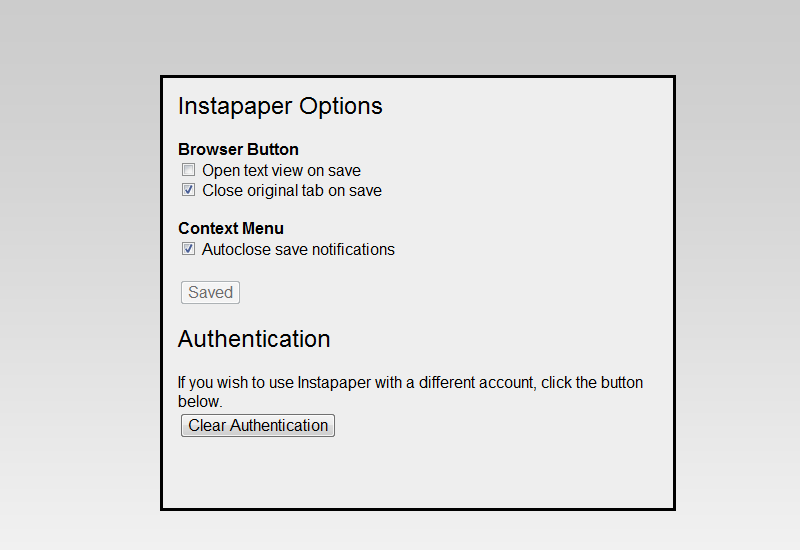
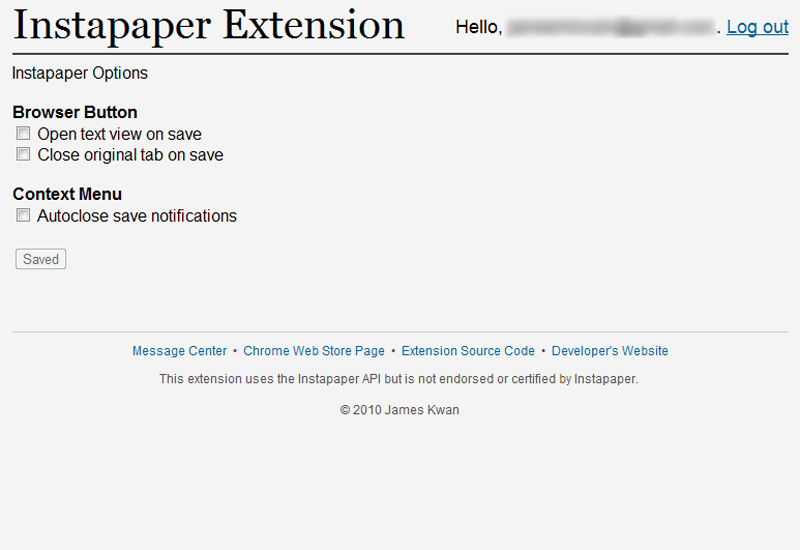
Version 2.2
Additional Changes to BETA version

diff --git a/options.html b/options.html
@@ -3,6 +3,8 @@
 <title>Instapaper Options</title>
 <script type="text/javascript" src="jquery.js"></script>
 <script type="text/javascript">
+var authstage=0;
+
 //triggerError: Creates an error popup containing the input message
 function triggerError(m) {
   $('#stat')
@@ -28,66 +30,84 @@ function auth(func) {
   });
 }
 
+//apiauth: Handles the authentication
+function apiauth(st)
+{
+  $('#stat').slideUp(500);
+  setTimeout(function() {
+    switch(st) {
+      case 200:
+        //Success
+        localStorage['au']=1;
+        $('#authname').text(localStorage['un']);
+        $('#stageauth').fadeOut(function() {
+          $('#stageopts,#userpane').fadeIn();
+        });
+        break;
+      case 400:
+        //Server Refused
+        triggerError('Instapaper Server refused to process request. Try again later');
+        break;
+      case 403:
+        //Fix Authentication
+        $('#sendauth').attr('disabled',0);
+        if(authstage==1) {
+          $('#msgauth')
+            .css('color','#F00')
+            .text('Please verify your credentials and try again');
+          $('#pass').focus();
+        }
+        else if(authstage==2) {
+          $('#authpass').show();
+          $('#msgauth')
+            .css('color','#F00')
+            .text('Your Instapaper credentials are invalid');
+          $('#user').val(localStorage['un']);
+          $('#stageauth').fadeIn();
+          $('#pass').focus();
+          authstage=1;
+        }
+        else {
+          authstage=1;
+          $('#authpass').slideDown();
+          $('#msgauth').text('Now enter your password');
+          $('#pass').focus();
+        }
+        break;
+      case 404:
+        //Internet Error
+        triggerError('Could not connect to Instapaper. Please check your connection to www.instapaper.com');
+        break;
+      case 500:
+        //Server Error
+        triggerError('The remote server encountered an error. Please try again later.');
+        break;
+      default:
+        triggerError('The remote server responded with the unexpected response code '+st);
+    }
+  },750);
+}
+
 $(document).ready(function() {
-  var authstage=0;
   $('#formauth').submit(function(e) {
     e.preventDefault();
     $('#sendauth').attr('disabled',1);
     localStorage['un']=$('#user').val();
     localStorage['pw']=$('#pass').val();
     $('#pass').val('');
-    auth(function(st) {
-      switch(st) {
-        case 200:
-          //Success
-          localStorage['au']=1;
-          $('#stageauth').fadeOut(function() {
-            $('#stageopts').fadeIn();
-          });
-          break;
-        case 400:
-          //Server Refused
-          triggerError('Instapaper Server refused to process request. Try again later');
-          break;
-        case 404:
-          //Internet Error
-          triggerError('Could not connect to Instapaper. Please check your connection to www.instapaper.com');
-          break;
-        case 403:
-          //Fix Authentication
-          $('#sendauth').attr('disabled',0);
-          if(authstage) {
-            $('#msgauth')
-              .css('color','#F00')
-              .text('Please verify your credentials and try again');
-            $('#pass').focus();
-          }
-          else {
-            authstage=1;
-            $('#authpass').slideDown();
-            $('#msgauth').text('Now enter your password');
-            $('#pass').focus();
-          }
-          break;
-        case 500:
-          //Server Error
-          triggerError('The remote server encountered an error. Please try again later.');
-          break;
-        default:
-          triggerError('The remote server responded with the unexpected response code '+st);
-      }
-    });
+    auth(apiauth);
   });
   
   $('#clear').click(function(e) {
     e.preventDefault();
     
+    authstage=0;
     $('#msgauth')
       .css('color','#000')
       .text('Welcome! Please enter your username:');
     $('#authpass').css('display','none');
-    authstage=0;
     
+    $('#userpane').fadeOut();
     $('#stageopts').fadeOut(function() {
       $('#stageauth').fadeIn();
       $('#user').val('').focus();
@@ -126,38 +146,8 @@ $(document).ready(function() {
   else {
     //Verify Credentials
     $('#stat').slideDown();
-    auth(function(st) {
-      switch(st) {
-        case 200:
-          //Success
-          setTimeout(function() {
-            $('#stat').slideUp(function() {
-              $('#stageopts').fadeIn();
-            });
-          },1000);
-          break;
-        case 400:
-          //Server Refused
-          triggerError('Instapaper Server refused to process request.');
-          break;
-        case 404:
-          //Internet Error
-          triggerError('Could not connect to Instapaper. Please check your internet connectivity.');
-          break;
-        case 403:
-          //Outdated Password
-          $('#stageload').css('display','none');
-          $('#stagerestart').fadeIn();
-          $('#user').val(localStorage['un']);
-          break;
-        case 500:
-          //Server Error
-          triggerError('The remote server encountered an error. Please try again later.');
-          break;
-        default:
-          triggerError('The remote server responded with the unexpected response code '+st);
-      }
-    });
+    authstage=2;
+    auth(apiauth);
   }
 });
 </script>
@@ -167,11 +157,15 @@ $(document).ready(function() {
 <body>
 <div id="body">
 <div id="header">
+  <div id="userpane">
+  Hello, <span id="authname"></span>.
+  <a href="#" id="clear">Log out</a>
+  </div>
   <h1 id="logo">Instapaper Extension</h1>
 </div>
 <div id="auditorium">
   <div id="stat">
-    Checking your Instapaper Credentials...
+    Verifying your Instapaper credentials...
   </div>
   <div class="stage" id="stageauth">
     <div id="msgauth">Welcome! Please enter your username:</div><br />
@@ -204,9 +198,6 @@ $(document).ready(function() {
     <label for="opt_notif">Autoclose save notifications</label><br />
 
     <br /><input type="button" id="save" value="Saved" disabled="disabled" /><br />
-
-    <br /><b>Authentication</b><br />
-    To switch Instapaper Accounts, you will need to <a href="#" id="clear">delete your credentials</a>.
   </div>
 </div><br /><br /><br />
 <div id="footer">

diff --git a/styles.css b/styles.css
@@ -21,6 +21,14 @@ body {
   margin:0px 0px 8px 0px;
 }
 
+#userpane {
+	float:right;
+	margin-top:20px;
+	font-size:18px;
+	text-align:right;
+	display:none;
+}
+
 #sub {
   margin-bottom:20px;
 }
